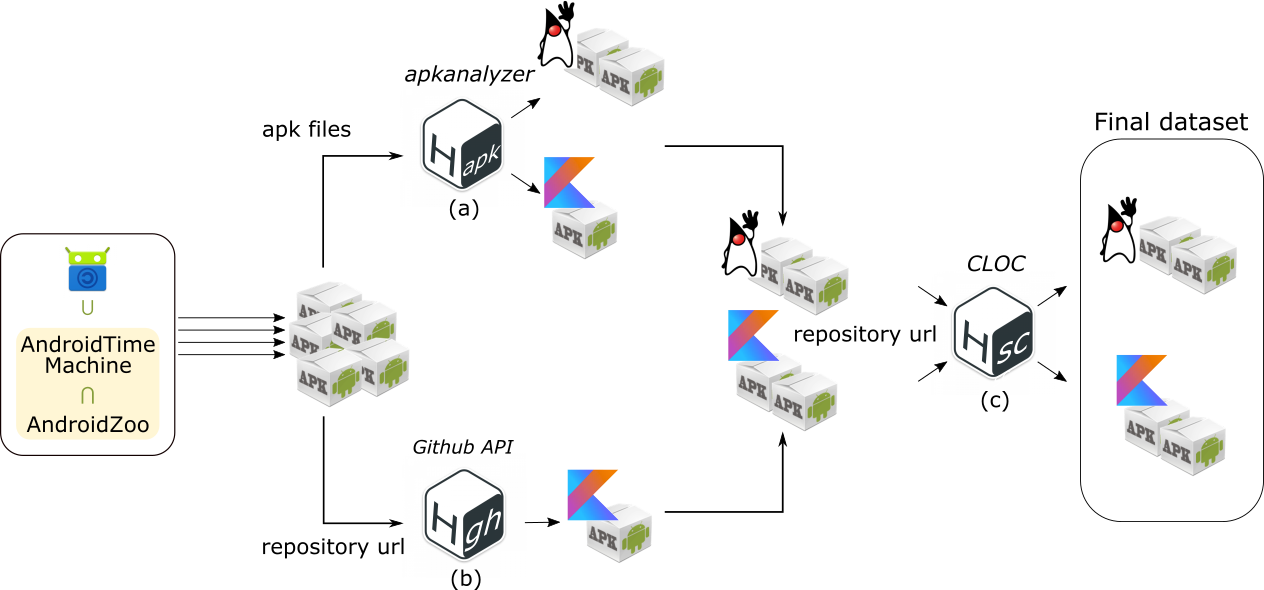
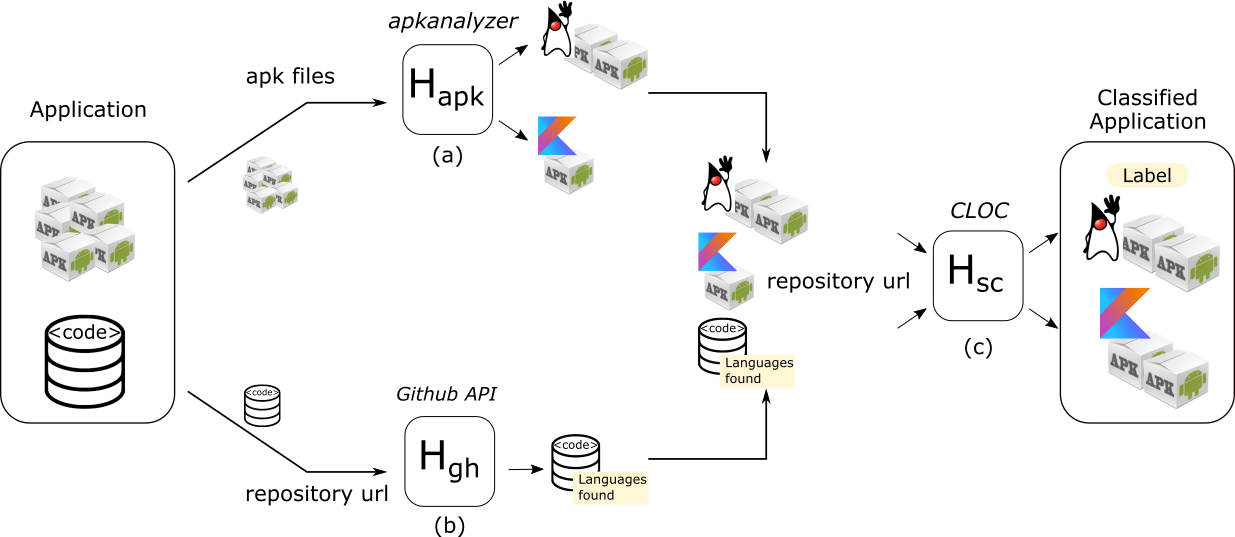
Information about how to cite
- Figure showing our heuristics upadted
- Some formated problems fixed

diff --git a/README.md b/README.md
@@ -1,5 +1,28 @@
 # An Empirical Study on Quality of Android Applications written in Kotlin language<a name="top"></a>
-Here you can find the steps needed to replicate our study.
+Here you can find the steps needed to replicate our study reliazed in our paper **An Empirical Study on Quality of Android Applications written in Kotlin language** published on [https://arxiv.org/abs/1808.00025](https://arxiv.org/abs/1808.00025).
+
+If you want use this information, please cite this paper:
+
+```latex
+@ARTICLE{2018arXiv180800025G,
+       author = {{Gois Mateus}, Bruno and {Martinez}, Matias},
+        title = "{An Empirical Study on Quality of Android Applications written in Kotlin
+        language}",
+      journal = {arXiv e-prints},
+     keywords = {Computer Science - Software Engineering},
+         year = 2018,
+        month = Jul,
+          eid = {arXiv:1808.00025},
+        pages = {arXiv:1808.00025},
+archivePrefix = {arXiv},
+       eprint = {1808.00025},
+ primaryClass = {cs.SE},
+       adsurl = {https://ui.adsabs.harvard.edu/#abs/2018arXiv180800025G},
+      adsnote = {Provided by the SAO/NASA Astrophysics Data System}
+}
+```
+
+
 
 ---
 
@@ -9,9 +32,9 @@ Here you can find the steps needed to replicate our study.
 	* [F-Droid](#fdroid)
 	* [AndroidTimeMachine](#androidtimemachine)
 	* [AndroZoo](#androzoo)
-2. [Filtering Kotlin applications](#filtering)
+2. [Building our study dataset](#filtering)
 	* [Getting applications from 2017 and 2018](#recentapps)
-	* [Applying our heuristics to find Kotlin applications](#hs)
+	* [Detecting Kotlin applications](#hs)
 3. [Code evolution of Android applications](#codeevolution)
 4. [Analyzing the difference between Kotlin and Java applications in terms of presence of code smells](#codesmells)
 5. [Detecting changes in the quality evolution trends after introducing Kotlin](#quality)
@@ -20,12 +43,28 @@ Here you can find the steps needed to replicate our study.
 
 ### 1. Creation of a dataset of Kotlin applications <a name="datasetconstruction"></a>
 
+As the goal of our experiment is to study the use and quality of Kotlin code in Android applications,
+we decided to study mobile applications that have at least one version released on 2017 or later.
+As [Kotlin was announced as an official language for Android development in 2017](https://android-developers.googleblog.com/2017/05/android-announces-support-for-kotlin.html), before that date Android developers did not have support from Google for developing Android applications using Kotlin language.
+Therefore, we considered that applications whose last versions date from 2016 or earlier could not give us much information about the use of Kotlin language in the Android domain.
 
-To study the using of Kotlin in the context of mobile development, we need first to select a dataset of mobile applications. In this work, we combined three well-known datasets, [F-droid](http://f-droid.org), [AndroZoo](http://androzoo.uni.lu) and [AndroidTimeMachine](https://androidtimemachine.github.io), to create our dataset.
+Moreover, we need that our dataset of Android applications includes, for each application: 
+
+1.  its source code hosted in a code repository (e.g., GitHub), and 
+2. binary files (apk) of the released versions. 
+
+
+#### Selecting dataset of Android applications
+
+We created our dataset of mobile applications by combining three already defined datasets: [F-droid](http://f-droid.org), [AndroidTimeMachine](https://androidtimemachine.github.io), and [AndroZoo](http://androzoo.uni.lu). To our knowledge those are the three largest publicly available datasets of Android applications that contain applications recently released. 
+
+Let us now to introduce each dataset and to explain the reasons of choosing them. 
 
 #### F-Droid <a name="fdroid"></a>
 
 **F-droid** is a directory of open-source Android applications. All apps listed in this directory are compiled from source and code repositories are publicly linked. In total, F-droid has **1509** applications on **06/04/2018**.
+
+F-droid provides all information we need, i.e, access to a code repository and apks of the different released versions of the applications. However, the number of applications **1509** is low compared with other datasets. For this reason, we decided to mine other Android datasets with the goal of including more applications in our study.
 
 The table below shows some of these applications. To see the complete list click [here](docs/fdroid_all.md).
 
@@ -50,7 +89,8 @@ F-droid provides on the main page of each application a link to download its las
 
 **AndroidTimeMachine** is a graph database of  Android apps which are both accessible on GitHub and Google.
 
-In total, AndroidTimeMachine has **8,431** applications and it is based on publicly-available GitHub mirror available in [BigQuery](https://cloud.google.com/bigquery/public-data/github) dated on 18th October 2018.
+In total, AndroidTimeMachine has **8431** applications and it is based on publicly-available GitHub mirror available in [BigQuery](https://cloud.google.com/bigquery/public-data/github) dated on 18th October 2018. Using the Neo4j database is possible to retrieve for each application its source-code repository link and the application's package name. However, this dataset does not provide any apks from its applications.
+For this reason, we decided to mine the missing apks on AndroZoo dataset. 
 
 The table below shows some of these applications. To see the complete visit the [official website](https://androidtimemachine.github.io).
 
@@ -74,7 +114,7 @@ This dataset is available in two different dockers: (i) first, containing the Ne
 
 **AndroZoo** is dataset of millions of Android apps collected from various data sources using different web crawlers. The sources from which AndroZoo draws include major market places *Google Play, Anzhi, and AppChine*, as well as smaller directories mobile, *AnGeeks, Slideme, ProAndroid, HiApk*, and *F-Droid*.
 
-In total, AndroZoo has **4390288** applications and **7795372** apks on **16/10/2018**.
+In total, AndroZoo has **4390288** applications and **7795372** apks on **16/10/2018**. The list of available APKs is regularly updated on the AndroZoo website, along with metadata for each app as, the main package name, the size of the APK, the version, and the market where the app was downloaded from, etc . However, AndroZoo does not provide a link for the source-code repository of an application, even if an application is open-source.
 
 The table below shows some of these applications. Each line corresponds to one apk file To see the complete list click [here](docs/latest.csv).
 
@@ -90,22 +130,16 @@ The table below shows some of these applications. Each line corresponds to one a
 |com.appautomatic.ankulua.trial|39|play.google.com|16004883|
 |com.kbf.app27730661|70101|play.google.com|1882706|
 
-On the AndroZoo website the list of available APKs are regularly updated, along with metadata on each app as, the main package name, the size of the APK, the version, and the market where the app was downloaded from, etc
 
 Furthermore, the AndroZoo's HTTP API allows to download full and unaltered APKs. 
-[back to the top](#top)
-
-For our experiment, we need the source-code and binary file (apk) from Android applications. F-droid provides both information, it contains only open-source apps and for each application it has a link to a public available source code repository (e.g., to GitHub) and the bytecode (apks) from different released versions and stores the previous versions of each app, which is necessary for studying the app evolution. However, F-Droid is small dataset if compared with AndroZoo. On the other hand, AndroZoo provides different released versions from each app, possibly from different stores, but it does not provide any information about applications' source-code. For that reason, we combined AndroZoo with AndroidTimeMachine. AndroidTimeMachine is considerable bigger than F-droid and it contains only open-source applications published on Google Play and hosted on GitHub, but it does not provide application's binary. Then, we use the application id(package name) to get the intersections between AndroZoo and AndroidTimeMachine, in this way we are able to get the source-code and apks from the set intersection. Therefore, our final dataset, as Figure below shows, corresponds to:  
-
-**F-droid &cup; ( AndroZoo &cap; AndroidTimeMachine)**
-
-![Final dataset](docs/final_dataset.png)
 
 [back to the top](#top)
 
 ---
 
-### 2. Filtering Kotlin applications <a name="filtering"></a>
+### 2. Building our study dataset <a name="filtering"></a>
+
+Now, we present the different steps to build the dataset used in this study.
 
 In this work, we are interested in a subset of mobile applications from F-droid, AndroidTimeMachine and AndroZoo: those that contain Kotlin code.
 
@@ -117,9 +151,10 @@ Consequently, the criterion we used for building our dataset of mobile apps is t
 #### Getting applications from 2017 and 2018 <a name="recentapps"></a>
 
 
-##### From F-Droid
+##### Step 1: Mining F-Droid
 
-Using the upload version provided by F-Droid, total number of applications retrieved from F-Droid by the date of June 4th, 2018 that fulfill our selection criterion is 928. 
+
+Using the upload version provided by F-Droid, total number of applications retrieved from F-Droid by the date of June 4th, 2018 that fulfill our selection criterion is **928** 
 
 The table below shows some of these applications. To see the complete list click [here](docs/fdroid_2017_2018.md).
 
@@ -134,37 +169,65 @@ The table below shows some of these applications. To see the complete list click
 |7.AntennaPod|de.danoeh.antennapod|Advanced podcast manager and player|2018-04-16|https://github.com/antennapod/AntennaPod|
 |8.Another RSS|de.digisocken.anotherrss|reader for multiple RSS feeds in a single, searchable list|2018-05-23|https://github.com/no-go/AnotherRSS|
 
-##### From AndroidTimeMachine and AndroZoo
+However,
+we retrieved **926** applications, since we could not download apks from two applications ([app1](https://f-droid.org/en/packages/org.fdroid.fdroid.privileged.ota/}) [app2](https://f-droid.org/en/packages/org.fdroid.fdroid.ota/)), because for these applications F-Droid provides only zip files. Moreover, the total number of versions (i.e., apks) found corresponding to those applications was **13094**. 
+We could download **11675** apks (**89%**). The rest of apks files (**11%**) were not available.  
 
-Originally, AndroidTimeMachine contains **8431** and the most recent apps contained is from October 2017, since the first step of building this dataset, i.e, query  the publicly-available GitHub mirror available in BigQuery, was executed considering a mirror from that date. In order to get more recent apps and potentially more Kotlin apps, we re-executed the steps needed to create [AndroidTimeMachine](https://androidtimemachine.github.io/dataset/), using the [tool] (https://github.com/AndroidTimeMachine/open_source_android_apps) provided by the authors. 
+##### Step 2: Mining AndrodTimeMachine
 
-**Step executed:**
+The version of  AndroidTimeMachine  presented by its authors  contains **8431** applications and it has been executed in October 2017. As their infrastructure is publicly available,[dataset](https://androidtimemachine.github.io/dataset) and [tool](https://github.com/AndroidTimeMachine/open_source_android_apps),
+we re-executed it on October 2018 with the goal of including more recent applications.
 
-1. Query GitHub data on BigQuery on 18/10/2018 to Find Android Manifest Files 
- - **358,518**  found
- - Includes many build artifacts, included libraries,
-2. Extracting Packages names from each Manifest
- - **114,152** unique packages
-3. Extracting Package names from repositories with only one manifest file (Avoid false/positive)
- - **49,570** unique packages
-4. Filtering for Apps on Google Play
- - **3664** found
-5. Matching of Google Play pages to GitHub repositories
- - **3664** found
+Once we retrieved the list of applications, 
+as difference of the original work we carried out a new step to keep applications whose code repository that have only one Android manifest file.
 
-The table below shows the false/positive avoided by our incluision of a new step, step 3.
+We discovered that their technique for linking code repositories of a mobile application with the corresponding Google Play page can fail if the app repository has more than one manifest. We list that applications that suffer the mentioned problem: [here](docs/wrong_match.md)
 
-|Repo URL|Package|App on Google Play| 
-|---|---|---|
-[FinalHerramientas-2014-2](https://github.com/afmurillo/FinalHerramientas-2014-2)| com.google.android.apps.googlevoice|[Google Voice](https://play.google.com/store/apps/details?id=com.google.android.apps.googlevoice)|
-[FinalHerramientas-2014-2](https://github.com/afmurillo/FinalHerramientas-2014-2)| com.google.android.gm|[Gmail](https://play.google.com/store/apps/details?id=com.google.android.gm)|
-[MIUI-XML-6.0-Indonesian](https://github.com/bamz3r/MIUI-XML-6.0-Indonesian)|com.google.android.music|[Google Music](https://play.google.com/store/apps/details?id=com.google.android.music)|
-[react-native-navigation](https://github.com/travelbird/react-native-navigation)|com.airbnb.android|[Airbnb](https://play.google.com/store/apps/details?id=com.airbnb.android)|
-|[foursquared.eclair](https://github.com/sbolisetty/foursquared.eclair)|com.joelapenna.foursquared|[Foursquare](https://play.google.com/store/apps/details?id=com.joelapenna.foursquared)|
+The table below shows the comparison between the numbers found by us resulting of the re-execution of each step and the numbers of the original dataset by Geiger2018:data. In conclusion, we retained  **2156** applications from AndroidTimeMachine, all of them fulfill our selection criterion. 
 
-Using the metadata downloaded from the app store on step 4, more specifically, the field **'updateDate'** that contains the date when the applications was last update, we filtered applications whose were update in 2017 and later. We found **2156** applications that fulfill our selection criterion.
+<table class="tg">
+  <tr>
+    <td class="tg-xldj" rowspan="2">Steps</td>
+    <td class="tg-uys7" colspan="2">AndroidTimeMachine</td>
+  </tr>
+  <tr>
+    <td class="tg-c3ow">Original</td>
+    <td class="tg-c3ow">Updated</td>
+  </tr>
+  <tr>
+    <td class="tg-0pky">1. Finding Android Manifest Files</td>
+    <td class="tg-c3ow">378610</td>
+    <td class="tg-c3ow">358518</td>
+  </tr>
+  <tr>
+    <td class="tg-0pky">2. Extracting package Names</td>
+    <td class="tg-c3ow">112153</td>
+    <td class="tg-c3ow">114152</td>
+  </tr>
+  <tr>
+    <td class="tg-0pky">3. Discarding repositories with more than one manifest file</td>
+    <td class="tg-c3ow">-</td>
+    <td class="tg-c3ow">49570</td>
+  </tr>
+  <tr>
+    <td class="tg-0pky">4. Filtering applications on Google Play</td>
+    <td class="tg-c3ow">9478</td>
+    <td class="tg-c3ow">3664</td>
+  </tr>
+  <tr>
+    <td class="tg-0pky">5. Matching of Google Play pages to GitHub repositories</td>
+    <td class="tg-c3ow">8431</td>
+    <td class="tg-c3ow">3664</td>
+  </tr>
+  <tr>
+    <td class="tg-0pky">6. Filtering applications from 2017 or later</td>
+    <td class="tg-c3ow">-</td>
+    <td class="tg-c3ow">2156</td>
+  </tr>
+</table>
 
-The table below shows some of these applications. To see the complete list click [here](docs/androidtimemachine_2017_2018.md).
+
+The table below shows some of these applications that fullfil our criterion. To see the complete list click [here](docs/androidtimemachine_2017_2018.md).
 
 App name| Package Name| Description | Upload Date | Source-code repo|
 |---|---|---|---|---|
@@ -178,6 +241,18 @@ App name| Package Name| Description | Upload Date | Source-code repo|
 |8. 2048 (Ads Free)|com.tpcstld.twozerogame|Port of Gabriele Cirulli's 2048 to Android.\n\n+No Ads!\n+No permissions!|Jun 10, 2018|https://github.com/BuddyBuild/2048-Android|
 |9. 5 Calls|org.a5calls.android.a5calls|Make your voice heard: Spend 5 minutes, make 5 calls.|Jul 18, 2018|https://github.com/bryansills/5calls-android|
 |10. 5 Pin Bowling Companion|ca.josephroque.bowlingcompanion|Track 5 pin bowling scores frame-by-frame, along with a medley of statistics!|Sep 29, 2018|https://github.com/sunndog/bowling-companion|
+
+The table below shows the false/positive avoided by our incluision of a new step, step 3.
+
+|Repo URL|Package|App on Google Play| 
+|---|---|---|
+[FinalHerramientas-2014-2](https://github.com/afmurillo/FinalHerramientas-2014-2)| com.google.android.apps.googlevoice|[Google Voice](https://play.google.com/store/apps/details?id=com.google.android.apps.googlevoice)|
+[FinalHerramientas-2014-2](https://github.com/afmurillo/FinalHerramientas-2014-2)| com.google.android.gm|[Gmail](https://play.google.com/store/apps/details?id=com.google.android.gm)|
+[MIUI-XML-6.0-Indonesian](https://github.com/bamz3r/MIUI-XML-6.0-Indonesian)|com.google.android.music|[Google Music](https://play.google.com/store/apps/details?id=com.google.android.music)|
+[react-native-navigation](https://github.com/travelbird/react-native-navigation)|com.airbnb.android|[Airbnb](https://play.google.com/store/apps/details?id=com.airbnb.android)|
+|[foursquared.eclair](https://github.com/sbolisetty/foursquared.eclair)|com.joelapenna.foursquared|[Foursquare](https://play.google.com/store/apps/details?id=com.joelapenna.foursquared)|
+
+##### Step 3: Combining AndrodTimeMachine with AndroZoo and F-Droid
 
 Using the packages names of each app, we queried the csv file provided by AndroZoo to identify which applications we could download the apks. Then, we found **236** applications present on F-Droid as well, remaining  **1295**  applications  to  download. Then, we  checked  manually  for  each  of  1295  applications, its pages on GooglePlay and its source-code link, to avoid applications liked with wrong repositories, including applications not open-source, because this would result on downloading wrong apks. We found and removed 54 applications, including some not open-source apps, as Facebook Mensseger  and Twitter.  The  complete  list  of  apps  removed  is  available [here](docs/wrong_match.md).
 
@@ -195,7 +270,13 @@ The table below shows some of these applications. To see the complete list click
 |7. A Mohammed Khaleel’s Invitation|com.slbdev.demo|A Mohammed Khaleel’s Invitation|Aug 9, 2018|https://github.com/alexrainman/CarouselView|
 |8. A.scribe|com.laaidback.ascribe|open-source, minimalist note-taking app|Aug 3, 2017|https://github.com/Laaidback/A.scribe|
 
-In total, our dataset should have **2169** (928 + 1241) applications, but we could not download any apks from two applications, then our final dataset has **2167** apps and **19838** apks.
+#### The resulting dataset 
+
+Our final dataset, named **FAMAZOA** - **F**-droid **A**ndroidtime**M**achine **A**ndroZoo **O**pen-source **A**pplications) corresponds to:  
+
+**F-droid &cup; ( AndroZoo &cap; AndroidTimeMachine)**
+
+In total, our dataset should have **2169** (928 + 1241) applications, but we could not download any apks from two applications, then our final dataset has **2167** apps and **19838** apks. 
 
 The table below shows some of these applications. To see the complete list click [here](docs/final_dataset.md).
 
@@ -213,7 +294,12 @@ The table below shows some of these applications. To see the complete list click
 |10. APK Downloader|ca.barraco.carlo.apkdownloader|Save apps installed on your device to an APK file in your Download folder.|Jun 28, 2018|https://github.com/cbarox/APK-Downloader|
 [back to the top](#top)
 
-#### Applying our heuristics to find Kotlin applications <a name="hs"></a>
+The figure below shows the distribution of apks (released versions) per applications. From F-droid we downloaded in median 6 apks, 
+and from AndroidZoo we downloaded in media 3 apk per application.
+
+![Median of versions by dataset](docs/boxplot_dataset.png)
+
+#### Detecting Kotlin applications="hs"></a>
 
 We build a process to classify both applications and apks retrieved in two categories of applications: (1) written (partially or totally) with Kotlin, and (2) written with Java (not include any line of Kotlin code).
 
@@ -221,17 +307,16 @@ The Figure below shows the process for classifying applications between Kotlin a
 
 ![Pipeline to classify android applications](docs/heuristics.png)
 
-We  first apply a heuristics *H_apk*, Figure (a), that consists of looking for a folder called **kotlin** inside the apk file. To  automatize this task,  we use an Android developer tool provided by the Android SDK, named *apkanalyzer*. Using this heuristic, we first classify each version (apk) of an application. Then, if at least one apk of an application is classified as Kotlin, the heuristic  classifies  the application as 'Kotlin'. 
-Otherwise, it classifies as 'Java'.
-The *H_apk*  provides a cheap and fast approach to get an initial guess about the presence of Kotlin code.
+We  first applied an heuristics *H_apk*, that consists of looking for a folder called **kotlin** inside the apk file. Having such folder is an evidence of having Kotlin code inside the application.  
+To automatize this task,  a tool named *apkanalyzer* included in the Android SDK. Using this heuristic, we first classified each version (apk) of an application.Then, if at least one apk of an application is classified as Kotlin, the heuristic  classified  the application as *Kotlin*. Otherwise, it classifies as *Java*.
+The *H_apk* provides a cheap and fast approach to get an initial guess about the presence of Kotlin code.
 
-At the same time, we apply our second heuristic *H_gh*, Figure(b), which relies on the GitHub API:  for each application hosted on GitHub, we query the GitHub API to retrieve the amount of code (expressed in bytes) from the most recent version (i.e., the HEAD) grouped by the programming language. We classify the app as `Kotlin' if Kotlin language is present in the response of the API. 
+At the same time, we applied our second heuristic *H_gh*, which relies on the GitHub API:  for each application hosted on GitHub, we queried the GitHub API to retrieve the amount of code (expressed in bytes) from the most recent version (i.e., the HEAD) grouped by programming language. We classified the app as `Kotlin' if Kotlin language is present in the response of the API. The input of this heuristic is a URL to a GitHub repository.
 
-Finally, once we retrieve a set of candidate Kotlin applications using *H_apk* and *H_gh*, i.e, ***H\_apk &cup; H\_gh***, we apply the heuristic *H_sc*, Figure(c), to assert the presence of Kotlin code in, at least, one commit.  *H_sc* inspects every commit of the source code repository of an application.
-An application is classified as Kotlin if the heuristic fin>s, at least, one commit that introduces Kotlin code. 
-To carry out this task, the heuristic used the tool [CLOC](http://cloc.sourceforge.net/) which returns a list with the languages used in an application and the amount of code regarding no-blank lines. 
+Finally, once we retrieved a set of candidate Kotlin applications using *H_apk* and *H_gh*, i.e, ***H\_apk &cup; H\_gh***,
+we checked manually the applications repositories to avoid duplicated repositories, i.e, repositories that contain more than one application, we applied the heuristic *H_sc* over them, to assert the presence of Kotlin code and to measure how much Kotlin an application has.  The heuristic *H_sc* inspected every commit of the source code repository of an application.An application was classified as *Kotlin* if the heuristic found at least one commit that had Kotlin code,  and as `Pure Kotlin' if all commits contained only Kotlin code.
 
-Our final dataset corresponds to ***(H\_apk &cup; H\_gh) &cap; H\_sc***.
+![Final dataset](docs/final_dataset.png)
 
 
 ##### Results
@@ -243,10 +328,11 @@ The Table below summarizes the classification of applications  done using the me
 |Unique apps|2167|244|1923|
 |Versions|19838|1590|18248|
 
-Our dataset has **2167** applications: 
-**244 (11.25%)** of them contain, at least, one version (apk) that includes Kotlin code. The rest of the applications, **1923 (88.75%)** do not have any version that contain Kotlin code. 
-The Figure below shows these percentages.  Considering the number of versions (apk), we found 
-**1590** apks **(8.0%)** with Kotlin code and **18248 (92,0%)** without Kotlin code. 
+FAMAZOA has **2167** applications using our heuristics we classified **244 (11.26%)** as *Kotlin* applications. Consequently, the remaining applications, **1923 (88.74%)**, were classified as *Java*. 
+The figure  below shows these percentages.  
+Considering the number of versions (apk), we found 
+1590 apks (8.01%) with Kotlin code and 
+18248 (91.28%) without Kotlin code. 
 
 **Unique apps**
 ![Unique apps](docs/unique_apps.png)
@@ -254,9 +340,11 @@ The Figure below shows these percentages.  Considering the number of versions (a
 **All versions**
 ![Unique apps](docs/apks.png)
 
-Over a total of 2221 Kotlin applications:
+Now, let us to explain how we arrived to detect 244 Kotlin applications from FAMAZOA. 
 
-  *  *H_aph* classified 265 app as 'Kotlin', i.e., those with at least one 'Kotlin' apk. The table below shows some of these applications. To see the complete list click [here](docs/hapk.md).
+First, the heuristic *H_apk* classified 265 applications as *Kotlin*. Those applications have, at least, one apk classified as *Kotlin*. For 76 of them, all apks are classified as *Kotlin*.
+
+  The table below shows some of these applications. To see the complete list click [here](docs/hapk.md).
  
 |App name| Package Name| Description | Upload Date | Source-code repo|
 |---|---|---|---|---|
@@ -269,11 +357,12 @@ Over a total of 2221 Kotlin applications:
 |79. Android Playground|com.esafirm.androidplayground|Android Playground|Jan 3, 2018|https://github.com/esafirm/android-playground|
 |85. AnkiEditor for AnkiDroid|com.jkcarino.ankieditor|An advanced note editor plug-in for AnkiDroid|Sep 29, 2018|https://github.com/jkennethcarino/AnkiEditor|
 
- * *H_gh* classified 234 app as`Kotlin'. Furthermore, 41 out of 234 apps were not classified by *H_apk* as 'Kotlin'. However, we found [two repositories linked with two apps each](docs/sharing_repo.md). We manually checked these repositories and as consequence we removed two apps. For the apps linked with the [repo1](docs/sharing_repo.md#repo1), we realized that the authors used different packages names in two different stores, F-Droid and GooglePlay, for the same app. For the apps linked with [repo2](docs/sharing_repo.md#repo2), we found that one of them is a plugin for the main app and this plugin does not have Kotlin code. 
+
+Then, *H_gh* classified 234 applications as *Kotlin*. 
+193 of them, were also classified as *Kotlin* by *H_apk*.
+Up to here, both heuristics have classified 297 unique applications as *Kotlin*. 
 
 The table below shows some of these applications. To see the complete list click [here](docs/hgh.md).
-
-
 
 |App name| Package Name| Description | Upload Date | Source-code repo|
 |---|---|---|---|---|
@@ -286,7 +375,10 @@ The table below shows some of these applications. To see the complete list click
 |125. Apolline|science.apolline|Application for air pollution monitoring|May 27, 2018|https://github.com/Apolline-Lille/apolline-android|
 |127. App Launcher|com.simplemobiletools.applauncher|A simple holder for your favourite app launchers.|2018-05-23|https://github.com/SimpleMobileTools/Simple-App-Launcher|
 
-* We tried to apply *H_sc* on 304 repositories (*H_apk &cup; H_gh*) but 7 repositories were not available. Then we analyzed 297 repositories and we found 244 repositories that contains Kotlin code.
+
+We found [two repositories linked with two apps each](docs/sharing_repo.md). We manually checked these repositories and as consequence we removed two apps. For the apps linked with the [repo1](docs/sharing_repo.md#repo1), we realized that the authors used different packages names in two different stores, F-Droid and GooglePlay, for the same app. For the apps linked with [repo2](docs/sharing_repo.md#repo2), we found that one of them is a plugin for the main app and this plugin does not have Kotlin code. 
+
+Finally, We tried to apply *H_sc* on 304 repositories (*H_apk &cup; H_gh*) but 7 repositories were not available. Then we analyzed 297 repositories and we found 244 repositories that contains Kotlin code.
 To see the complete list click [here](docs/final_kotlin_repos.md). It is important to mentioned that two repositories appear twice.
 
 |App name| Package Name| Description | Upload Date | Source-code repo|
